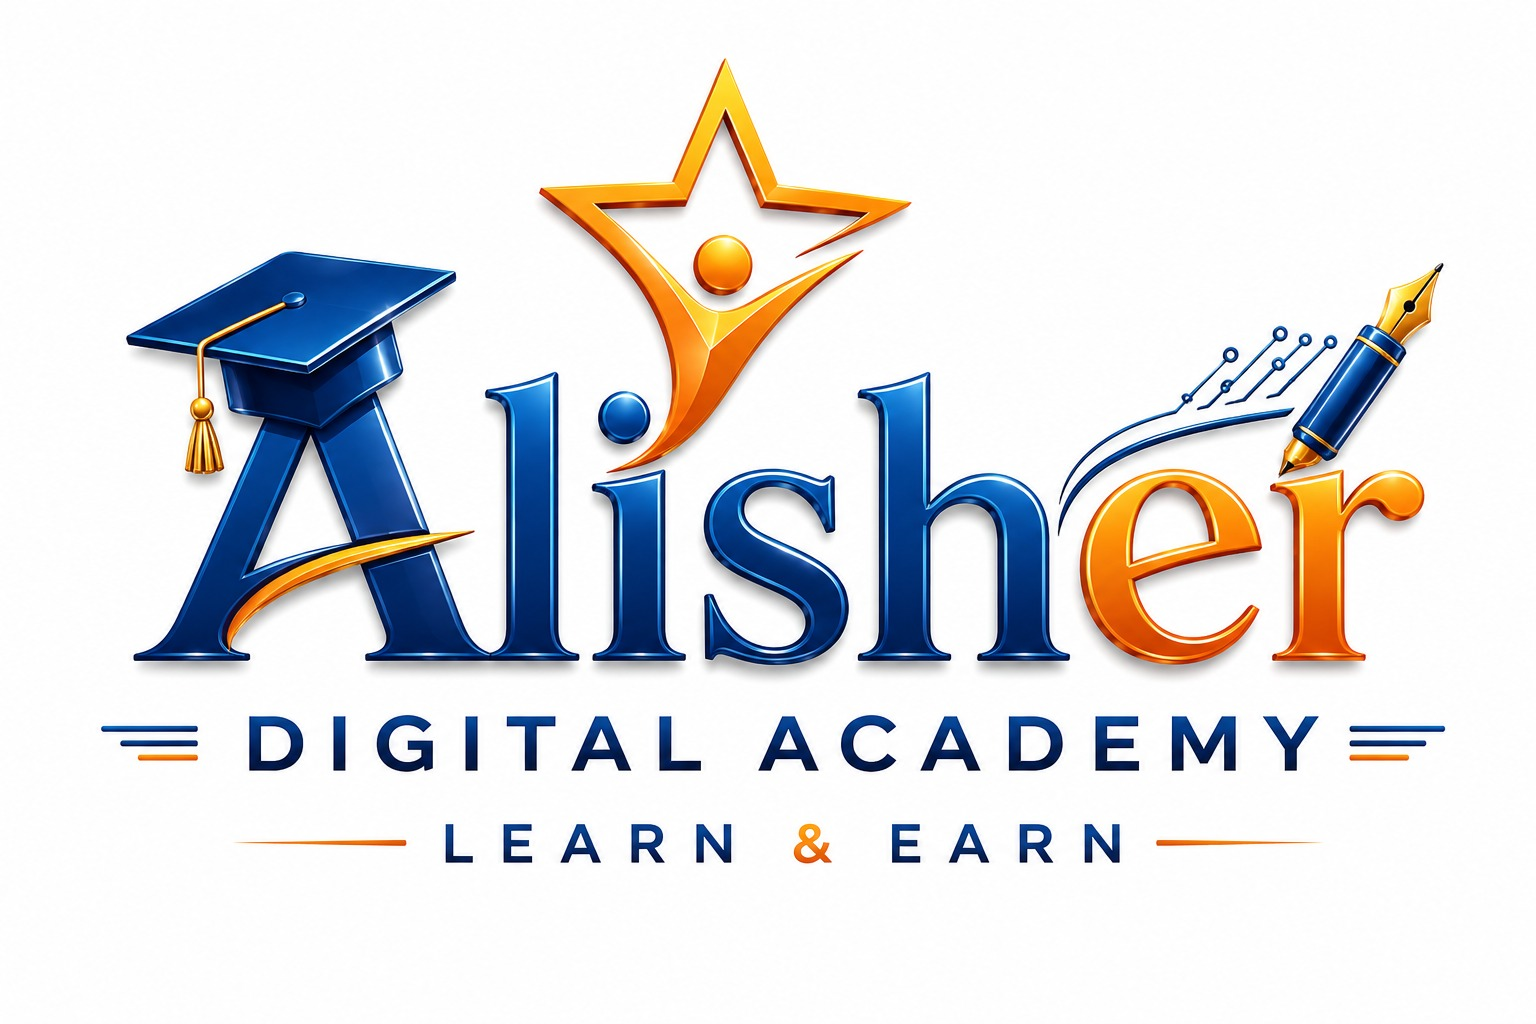
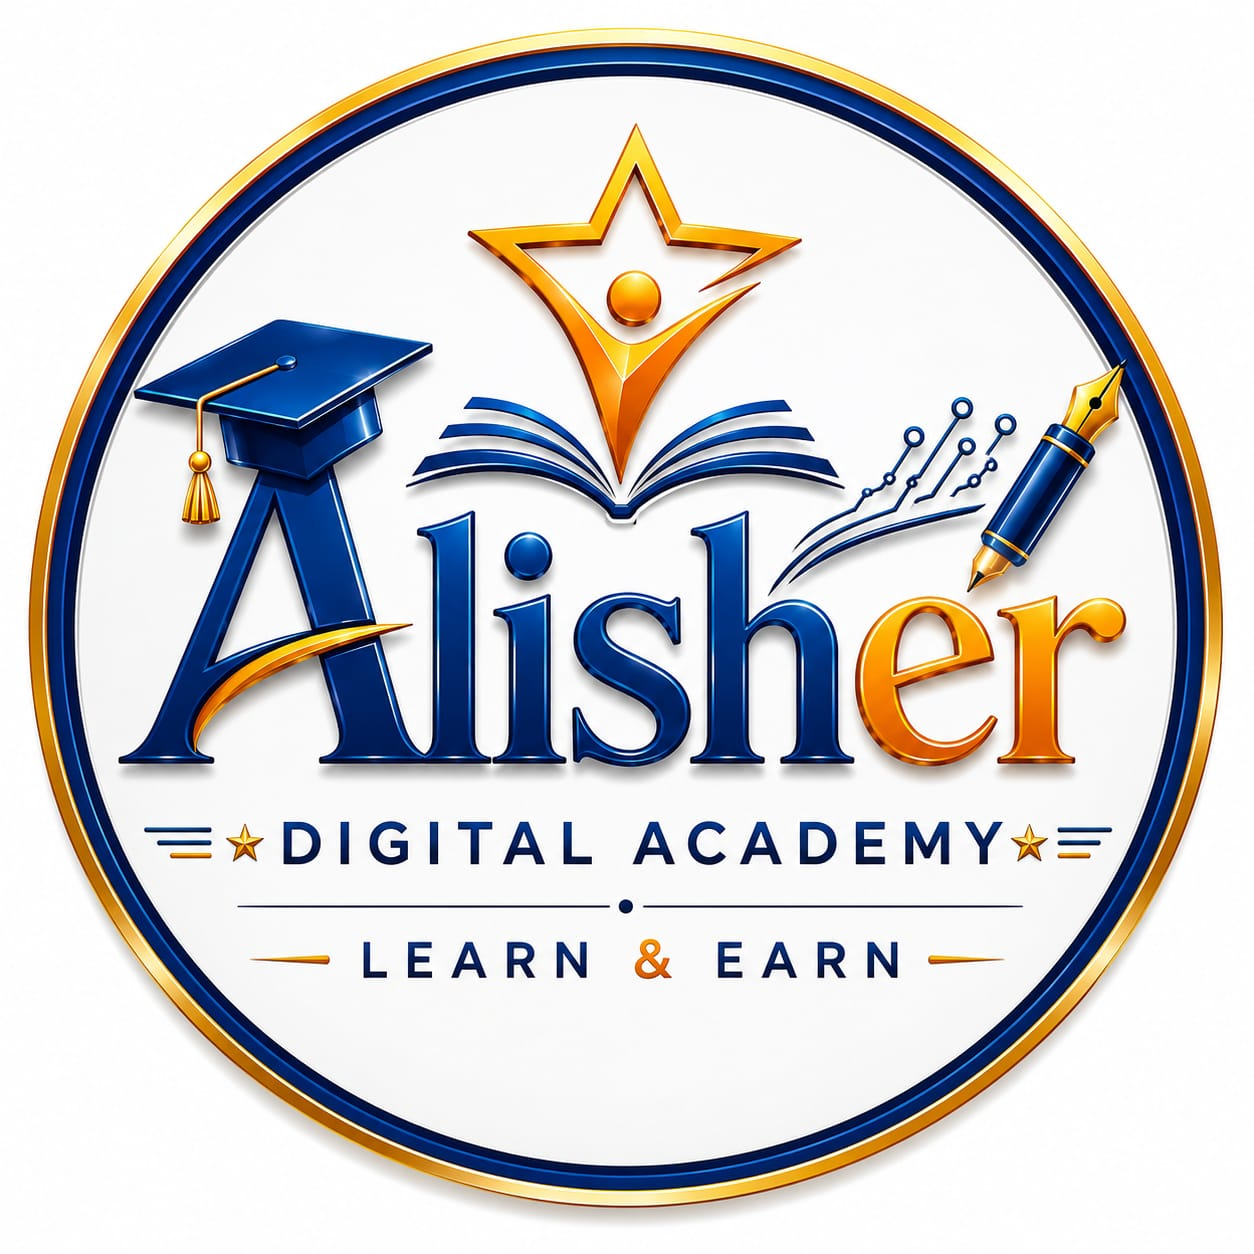
feat: implement InteractiveHero component with GSAP animations and add assets

diff --git a/src/components/InteractiveHero.tsx b/src/components/InteractiveHero.tsx
@@ -120,7 +120,9 @@ const InteractiveHero = () => {
     const webApps = [
         { name: 'Trust', icon: <img src={trustIcon} alt="Trust" className="w-full h-full object-cover rounded-2xl border-2 border-white" />, color: 'from-blue-400 to-indigo-500 shadow-indigo-500/20' },
         { name: 'Honesty', icon: <img src={honestyIcon} alt="Honesty" className="w-full h-full object-cover rounded-2xl border-2 border-white" />, color: 'from-teal-400 to-emerald-500 shadow-emerald-500/20' },
-        { name: 'Discipline', icon: <img src={disciplineIcon} alt="Discipline" className="w-full h-full object-cover rounded-2xl border-2 border-white" />, color: 'from-purple-400 to-fuchsia-500 shadow-purple-500/20' }
+        { name: 'Discipline', icon: <img src={disciplineIcon} alt="Discipline" className="w-full h-full object-cover rounded-2xl border-2 border-white" />, color: 'from-purple-400 to-fuchsia-500 shadow-purple-500/20' },
+        { name: 'Loyalty', icon: <img src={punctualityIcon} alt="Loyalty" className="w-full h-full object-cover rounded-2xl border-2 border-white" />, color: 'from-pink-400 to-rose-500 shadow-rose-500/20' },
+        { name: 'Quality', icon: <img src={qualityIcon} alt="Quality" className="w-full h-full object-cover rounded-2xl border-2 border-white" />, color: 'from-amber-400 to-orange-500 shadow-orange-500/20' }
     ];
 
     return (